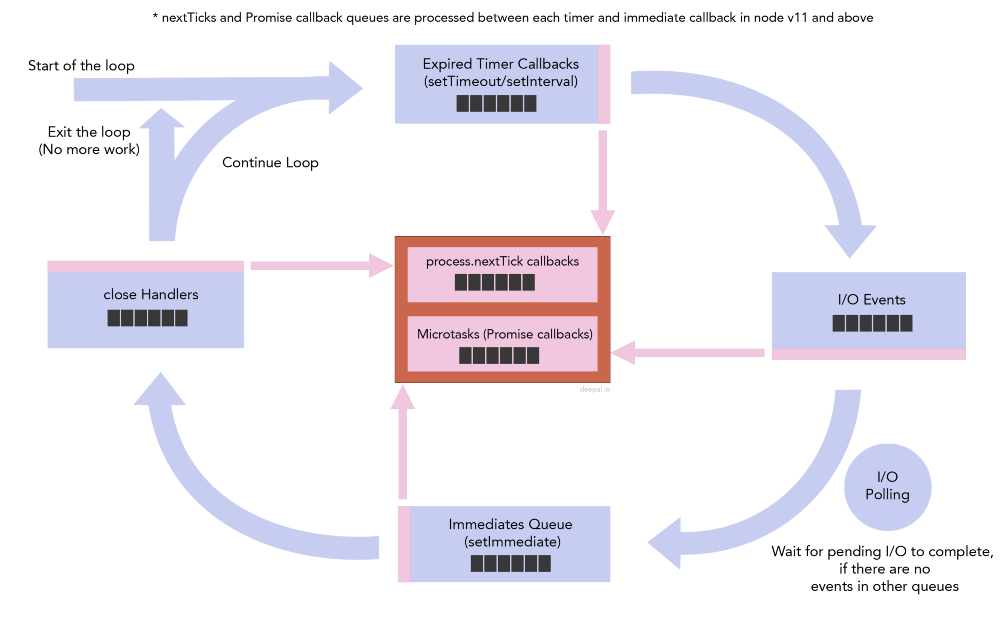
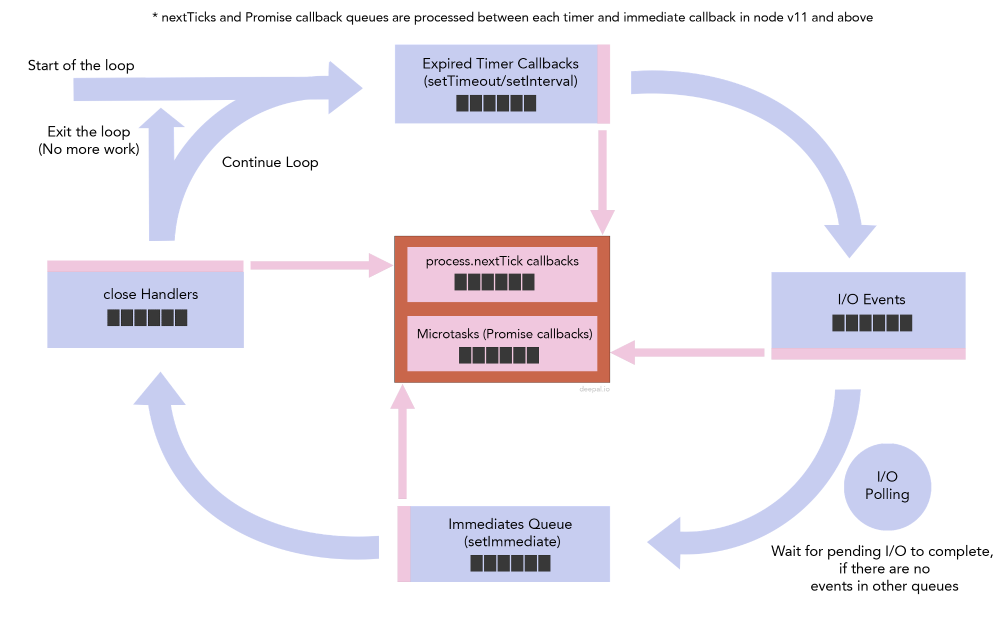
modify image url link

diff --git a/content/blog/javascript/nodejs_event_loop_1.md b/content/blog/javascript/nodejs_event_loop_1.md
@@ -18,12 +18,12 @@ draft: false
 Node.js를 실행하게 되면 이벤트 루프를 초기화하고 (개발자가 작성한) 자바스크립트 파일을 실행한다. 이벤트 루프의 전체적인 흐름을 그림으로 나타내면 다음과 같다:
 
 <figure>
-    <img src="https://cdn.jsdelivr.net/gh/jaehyeon48/jaehyeon48.github.io@master/assets/images/javascript/nodejs_event_loop/nodejs_event_loop1" alt="event loop example 1"/>
+    <img src="https://cdn.jsdelivr.net/gh/jaehyeon48/jaehyeon48.github.io@master/assets/images/javascript/nodejs_event_loop/nodejs_event_loop1.png" alt="event loop example 1"/>
     <figcaption>출처: https://www.voidcanvas.com/nodejs-event-loop/</figcaption>
 </figure>
 
 <figure>
-    <img src="https://cdn.jsdelivr.net/gh/jaehyeon48/jaehyeon48.github.io@master/assets/images/javascript/nodejs_event_loop/nodejs_event_loop2" alt="event loop example 2"/>
+    <img src="https://cdn.jsdelivr.net/gh/jaehyeon48/jaehyeon48.github.io@master/assets/images/javascript/nodejs_event_loop/nodejs_event_loop2.png" alt="event loop example 2"/>
     <figcaption>출처: https://blog.insiderattack.net/event-loop-and-the-big-picture-nodejs-event-loop-part-1-1cb67a182810</figcaption>
 </figure>
 
@@ -36,7 +36,7 @@ Node.js를 실행하게 되면 이벤트 루프를 초기화하고 (개발자가
 위 그림 중 첫 번째 그림은 이벤트 루프를 libuv의 관점에서 본 것이고, 두 번째 그림은 자바스크립트의 관점에서 본 것이라 할 수 있다. 위 두 관점을 하나로 합쳐 다음 그림으로 표현할 수 있다:
 
 <figure>
-    <img src="https://cdn.jsdelivr.net/gh/jaehyeon48/jaehyeon48.github.io@master/assets/images/javascript/nodejs_event_loop/nodejs_event_loop3" alt="event loop example 3"/>
+    <img src="https://cdn.jsdelivr.net/gh/jaehyeon48/jaehyeon48.github.io@master/assets/images/javascript/nodejs_event_loop/nodejs_event_loop3.png" alt="event loop example 3"/>
     <figcaption>출처: https://blog.insiderattack.net/handling-io-nodejs-event-loop-part-4-418062f917d1</figcaption>
 </figure>
 
